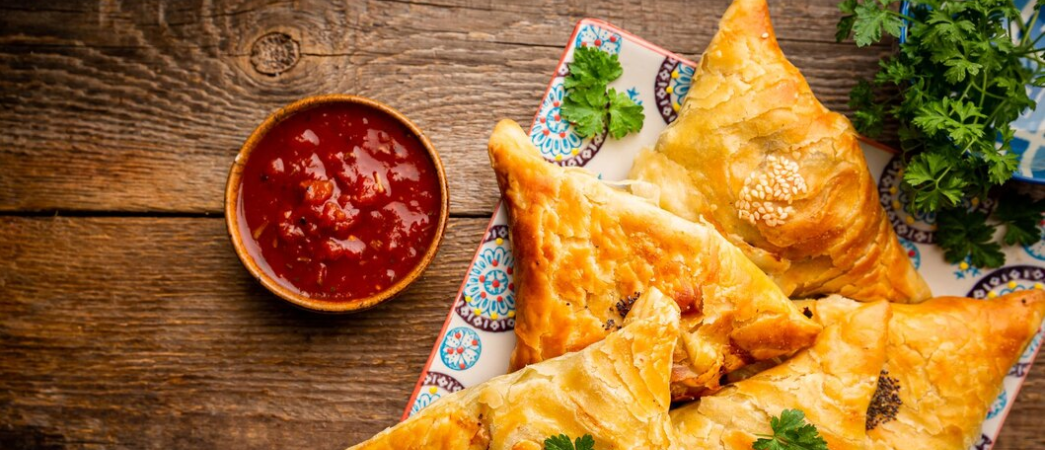
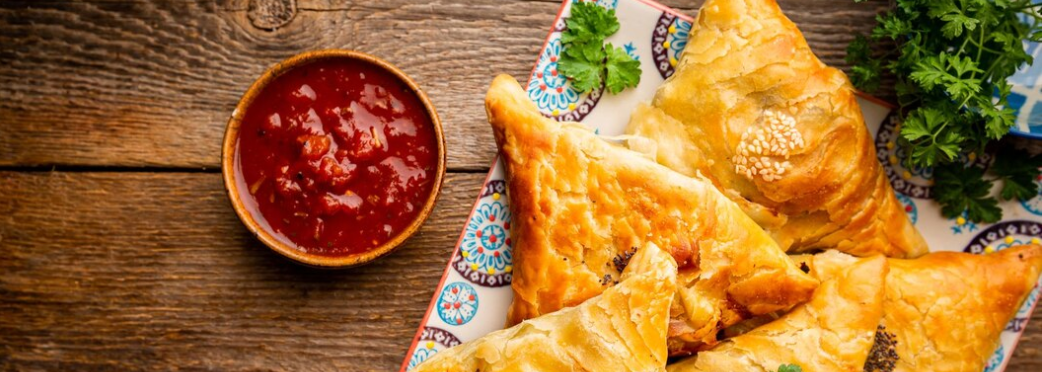
update slider section

diff --git a/index.html b/index.html
@@ -104,21 +104,44 @@
         </div>
         <div class="carousel-inner">
           <div class="carousel-item active">
-            <img src="img/p1.png" class="d-block w-100" alt="...">
+            <img src="img/p1.png" class="d-block w-100 img_h darken-image" alt="...">
             <div class="carousel-caption d-none d-md-block">
-              <h5>First slide label</h5>
-              <p>Some representative placeholder content for the first slide.</p>
+              
+                <div class="container mt-3">
+                    <div class="row">
+                        <div class="col-sm-4  p-2 text-center">
+                                <img src="img/samosa_img.png" class="img-fluid" height="270" width="270">
+                        </div>
+                        <div class="col-sm-8 text-start">
+                                <h1 class="h1 text-light">Joy <span class="text-warning">Samosa</span> Point</h1>
+                                <p class="text-light">
+                                    Lorem ipsum dolor sit amet consectetur adipisicing elit. Omnis possimus atque nostrum odio adipisci? Voluptatem aperiam asperiores consequatur, ratione natus dolores nobis laboriosam veniam atque expedita quae similique iure mollitia!
+                                </p>
+                                <figure>
+                                    <blockquote class="blockquote">
+                                      <p class="text-white">A well-known quote, contained in a blockquote element.</p>
+                                    </blockquote>
+                                    <figcaption class="blockquote-footer text-light">
+                                      Codes With Pankaj <cite title="Source Title">@p4n.in</cite>
+                                    </figcaption>
+                                  </figure>
+                                  <button class="btn btn-warning" data-bs-toggle="offcanvas" data-bs-target="#shop">Shop Now !</button>
+                        </div>
+                    </div>
+                </div>
+
+
             </div>
           </div>
           <div class="carousel-item">
-            <img src="img/p2.png" class="d-block w-100" alt="...">
+            <img src="img/p2.png" class="d-block w-100 img_h darken-image" alt="...">
             <div class="carousel-caption d-none d-md-block">
               <h5>Second slide label</h5>
               <p>Some representative placeholder content for the second slide.</p>
             </div>
           </div>
           <div class="carousel-item">
-            <img src="img/p3.png" class="d-block w-100" alt="...">
+            <img src="img/p3.png" class="d-block w-100 img_h darken-image" alt="...">
             <div class="carousel-caption d-none d-md-block">
               <h5>Third slide label</h5>
               <p>Some representative placeholder content for the third slide.</p>
@@ -142,7 +165,7 @@
 
     <!-- start center section  -->
 
-        <div class="container mt-3">
+        <!-- <div class="container mt-3">
             <div class="row">
                 <div class="col-sm-4  p-2 text-center">
                         <img src="img/samosa_img.png" class="img-fluid" height="270" width="270">
@@ -163,7 +186,7 @@
                           <button class="btn btn-warning" data-bs-toggle="offcanvas" data-bs-target="#shop">Shop Now !</button>
                 </div>
             </div>
-        </div>
+        </div> -->
 
 
     <!-- end center section -->

diff --git a/css/style.css b/css/style.css
@@ -6,3 +6,14 @@
     border:  solid 2px wheat;
 }
 
+.img_h{
+    height:400px;
+}
+.darken-image {
+    filter: brightness(40%);
+}
+.center_text{
+    top: 50%;
+    transform: translateY(-50%);
+}
+
